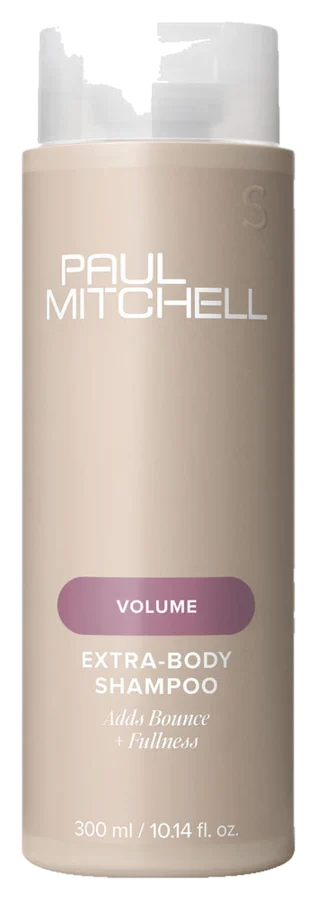
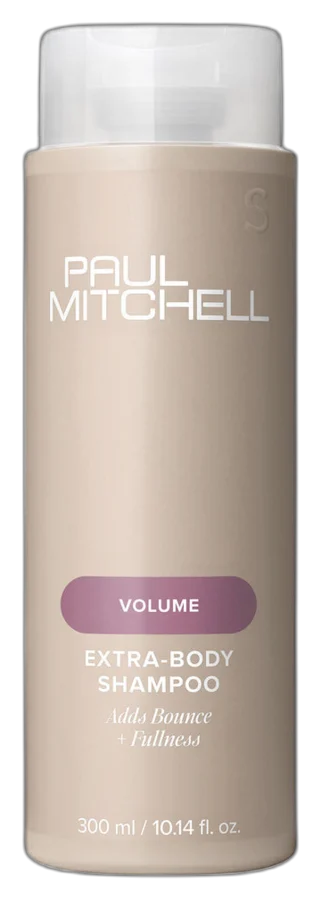
Paul Mitchell: вернули 16 фотографий со срезанным верхом и закрыли причину
Ренат со стенда: у шампуней Paul Mitchell срезан верх бутылки. Причина в нашем
коде — в подборе допуска заливки фона (tools/recut-classic.py). Порог
STEP_COST считается от всего товара, поэтому съеденная белая крышка стоит около
1 % за шаг и обрыва не вызывает: подбор доходит до 9 % и выкусывает верх.
До «классического» прохода эти же файлы были целыми.

Файлы возвращены из коммита 6a9a649 (версии, снятые старым проходом rembg).
Заполненность верхних 12 % объекта, до → после:
  awapuhi-conditioner            0,573 → 0,870
  awapuhi-shampoo                0,573 → 0,870
  clear-essential-shampoo        0,549 → 0,854
  clear-jelly-mask               0,223 → 0,427
  clear-styling-glaze            0,205 → 0,328
  color-protect-conditioner      0,608 → 0,870
  color-protect-shampoo          0,609 → 0,871
  curl-twirl-around-cream-serum  0,731 → 0,927
  extra-body-daily-shampoo       0,614 → 0,867
  forever-blonde-conditioner     0,573 → 0,870
  forever-blonde-shampoo         0,567 → 0,870
  shampoo-two                    0,613 → 0,866
  sheer-hydration-conditioner    0,614 → 0,873
  sheer-hydration-shampoo        0,614 → 0,874
  super-smooth-conditioner       0,563 → 0,873
  super-smooth-shampoo           0,562 → 0,869
Остальные 18 фотографий Paul Mitchell и все 285 прочих не тронуты.

Чтобы это не вернулось на следующем прогоне, тринадцать снимков на чистом
белом фоне закреплены на допуске 3 % в OVERRIDE — в recut-classic.py,
[…]

diff --git a/tools/recut-classic.py b/tools/recut-classic.py
@@ -28,6 +28,42 @@ STEP_COST = 0.985
 # grey reflective backdrops — the sweep reads the backdrop leaving as a cliff
 OVERRIDE = {"creed-creed-aventus-cologne-50ml-0": 9, "handmade-soap-666-0": 9, "handmade-soap-rule-nr-1-0": 9}
 
+# White flip-top caps on white paper (Renat, 13.09.2026: «у шампуней срезан
+# верх бутылки»). STEP_COST is a budget against the WHOLE product, so eating a
+# cap that is ~3% of the bottle costs ~1.1% a step and never trips the cliff —
+# the sweep climbs to 9% and takes a bite out of the top. Measured on the
+# cached originals, cap-band fill of the top 12% of the object:
+#     fuzz 9 (what shipped) 0.56-0.61   fuzz 3  0.78-0.86   source  ~0.87
+# so these thirteen are pinned low. All are shot on pure white, srgb(255,255,255),
+# where a 3% flood still clears the paper — checked by eye, no grey rim.
+OVERRIDE.update({k: 3 for k in [
+    "paul-mitchell-awapuhi-conditioner-0",
+    "paul-mitchell-awapuhi-shampoo-0",
+    "paul-mitchell-clear-styling-glaze-0",
+    "paul-mitchell-color-protect-conditioner-0",
+    "paul-mitchell-color-protect-shampoo-0",
+    "paul-mitchell-extra-body-daily-shampoo-0",
+    "paul-mitchell-forever-blonde-conditioner-0",
+    "paul-mitchell-forever-blonde-shampoo-0",
+    "paul-mitchell-shampoo-two-0",
+    "paul-mitchell-sheer-hydration-conditioner-0",
+    "paul-mitchell-sheer-hydration-shampoo-0",
+    "paul-mitchell-super-smooth-conditioner-0",
+    "paul-mitchell-super-smooth-shampoo-0",
+]})
+
+# Three more Paul Mitchell photographs were damaged and have been restored from
+# the rembg-era blobs in git (6a9a649), but they are NOT in the dict above and
+# this dict cannot protect them: the sweep already picks 3 for all three, so the
+# tolerance is not what is wrong.
+#   clear-essential-shampoo-0, clear-jelly-mask-0 — shot on a grey gradient,
+#     corner srgb(205,210,214) / srgb(211,211,211); a 3% flood cannot clear it
+#     and the whole backdrop survives into the cutout.
+#   curl-twirl-around-cream-serum-0 — clear plastic cap on white; the flood
+#     walks through the transparent cap at any tolerance.
+# Re-running this script would break those three again. They need a different
+# mask (rembg, or a hand cut), not a different number.
+
 merch = set((SP / "merch-ids.txt").read_text().split())
 
 def sh(args):
